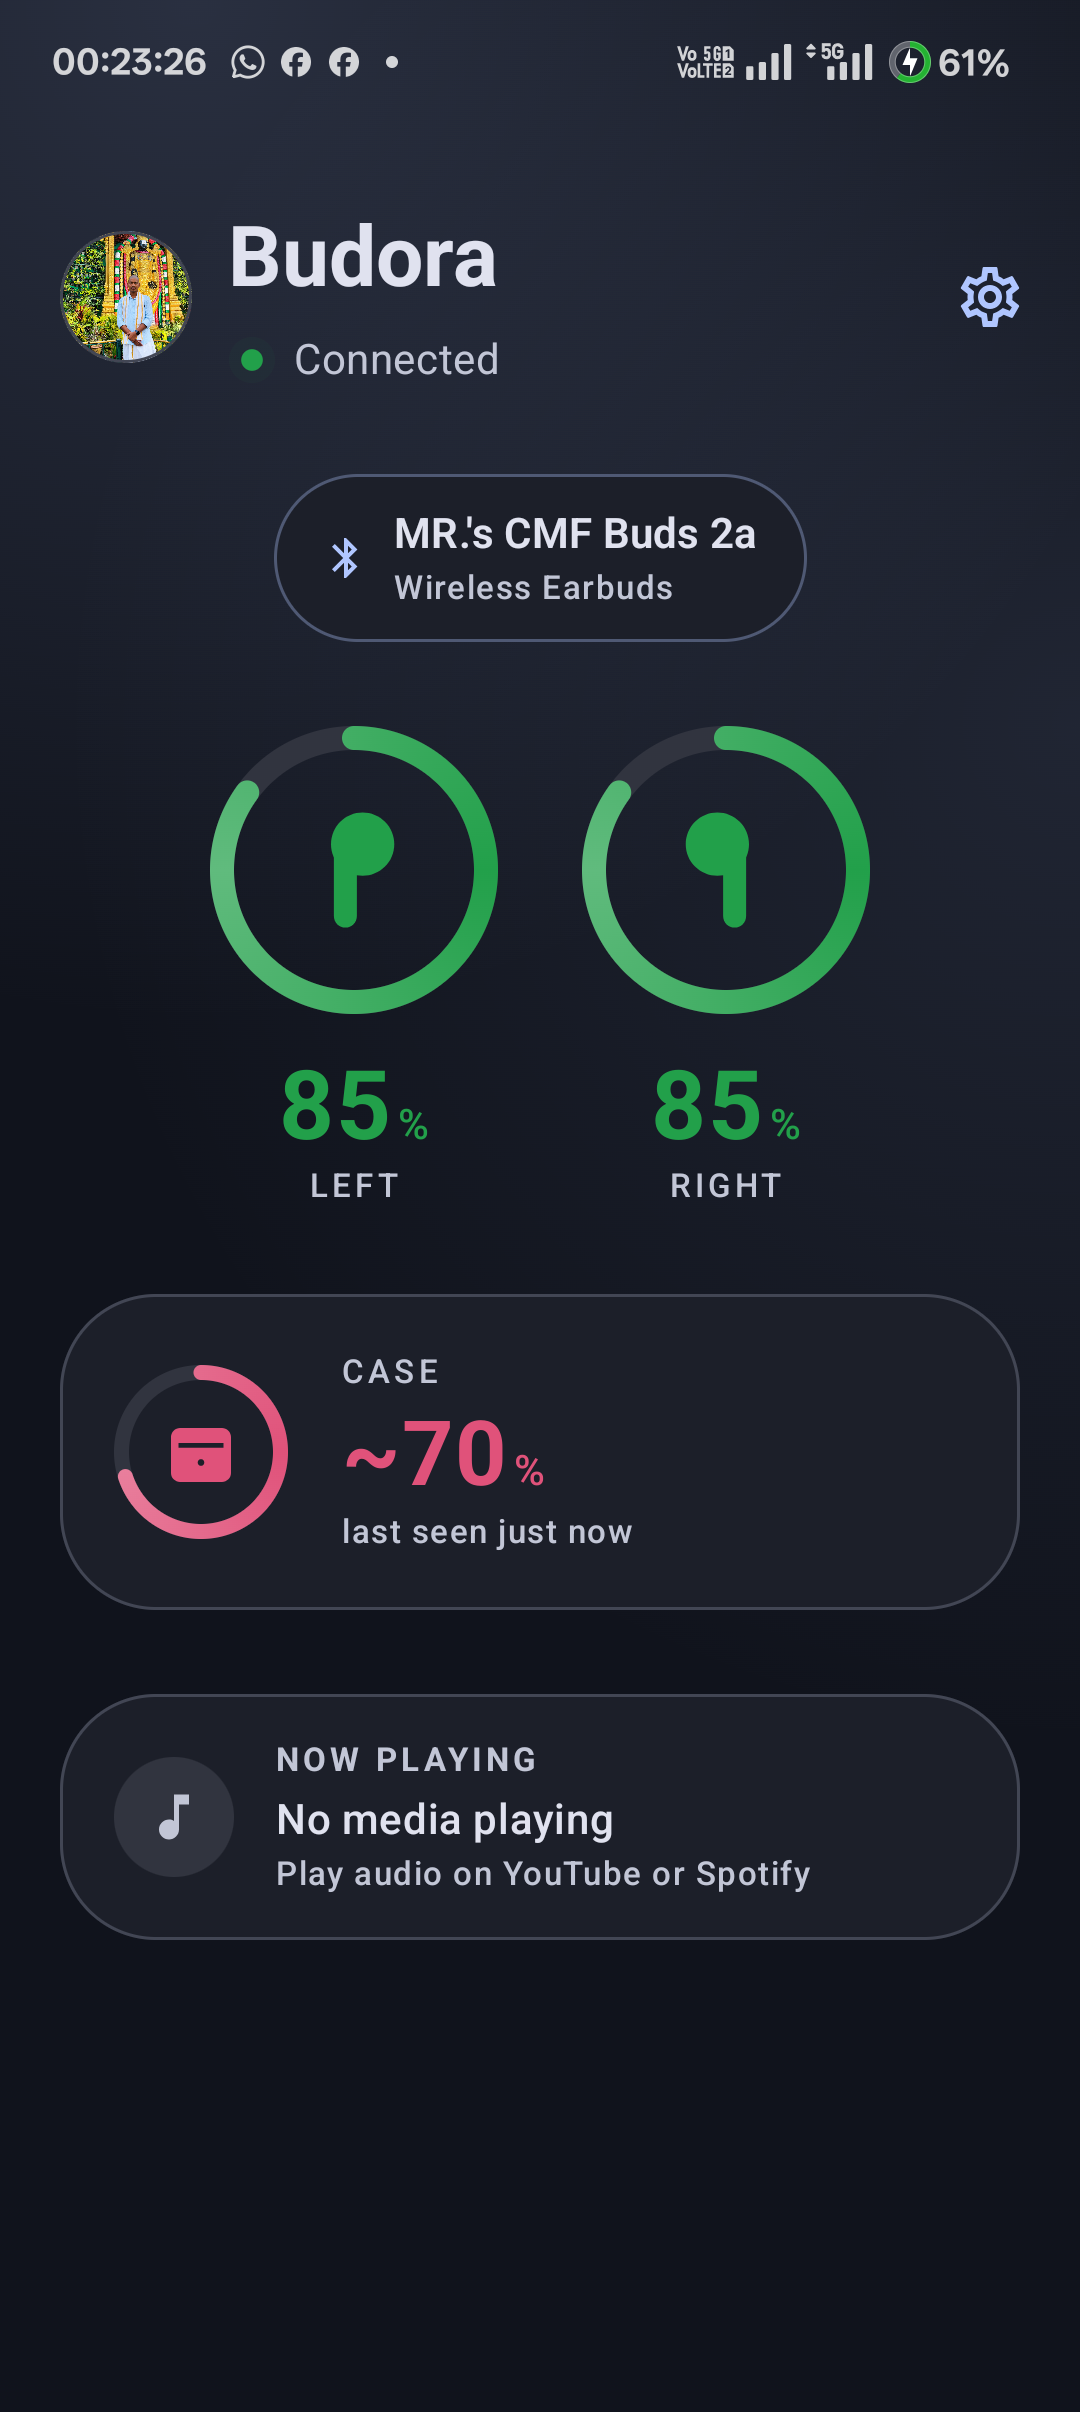
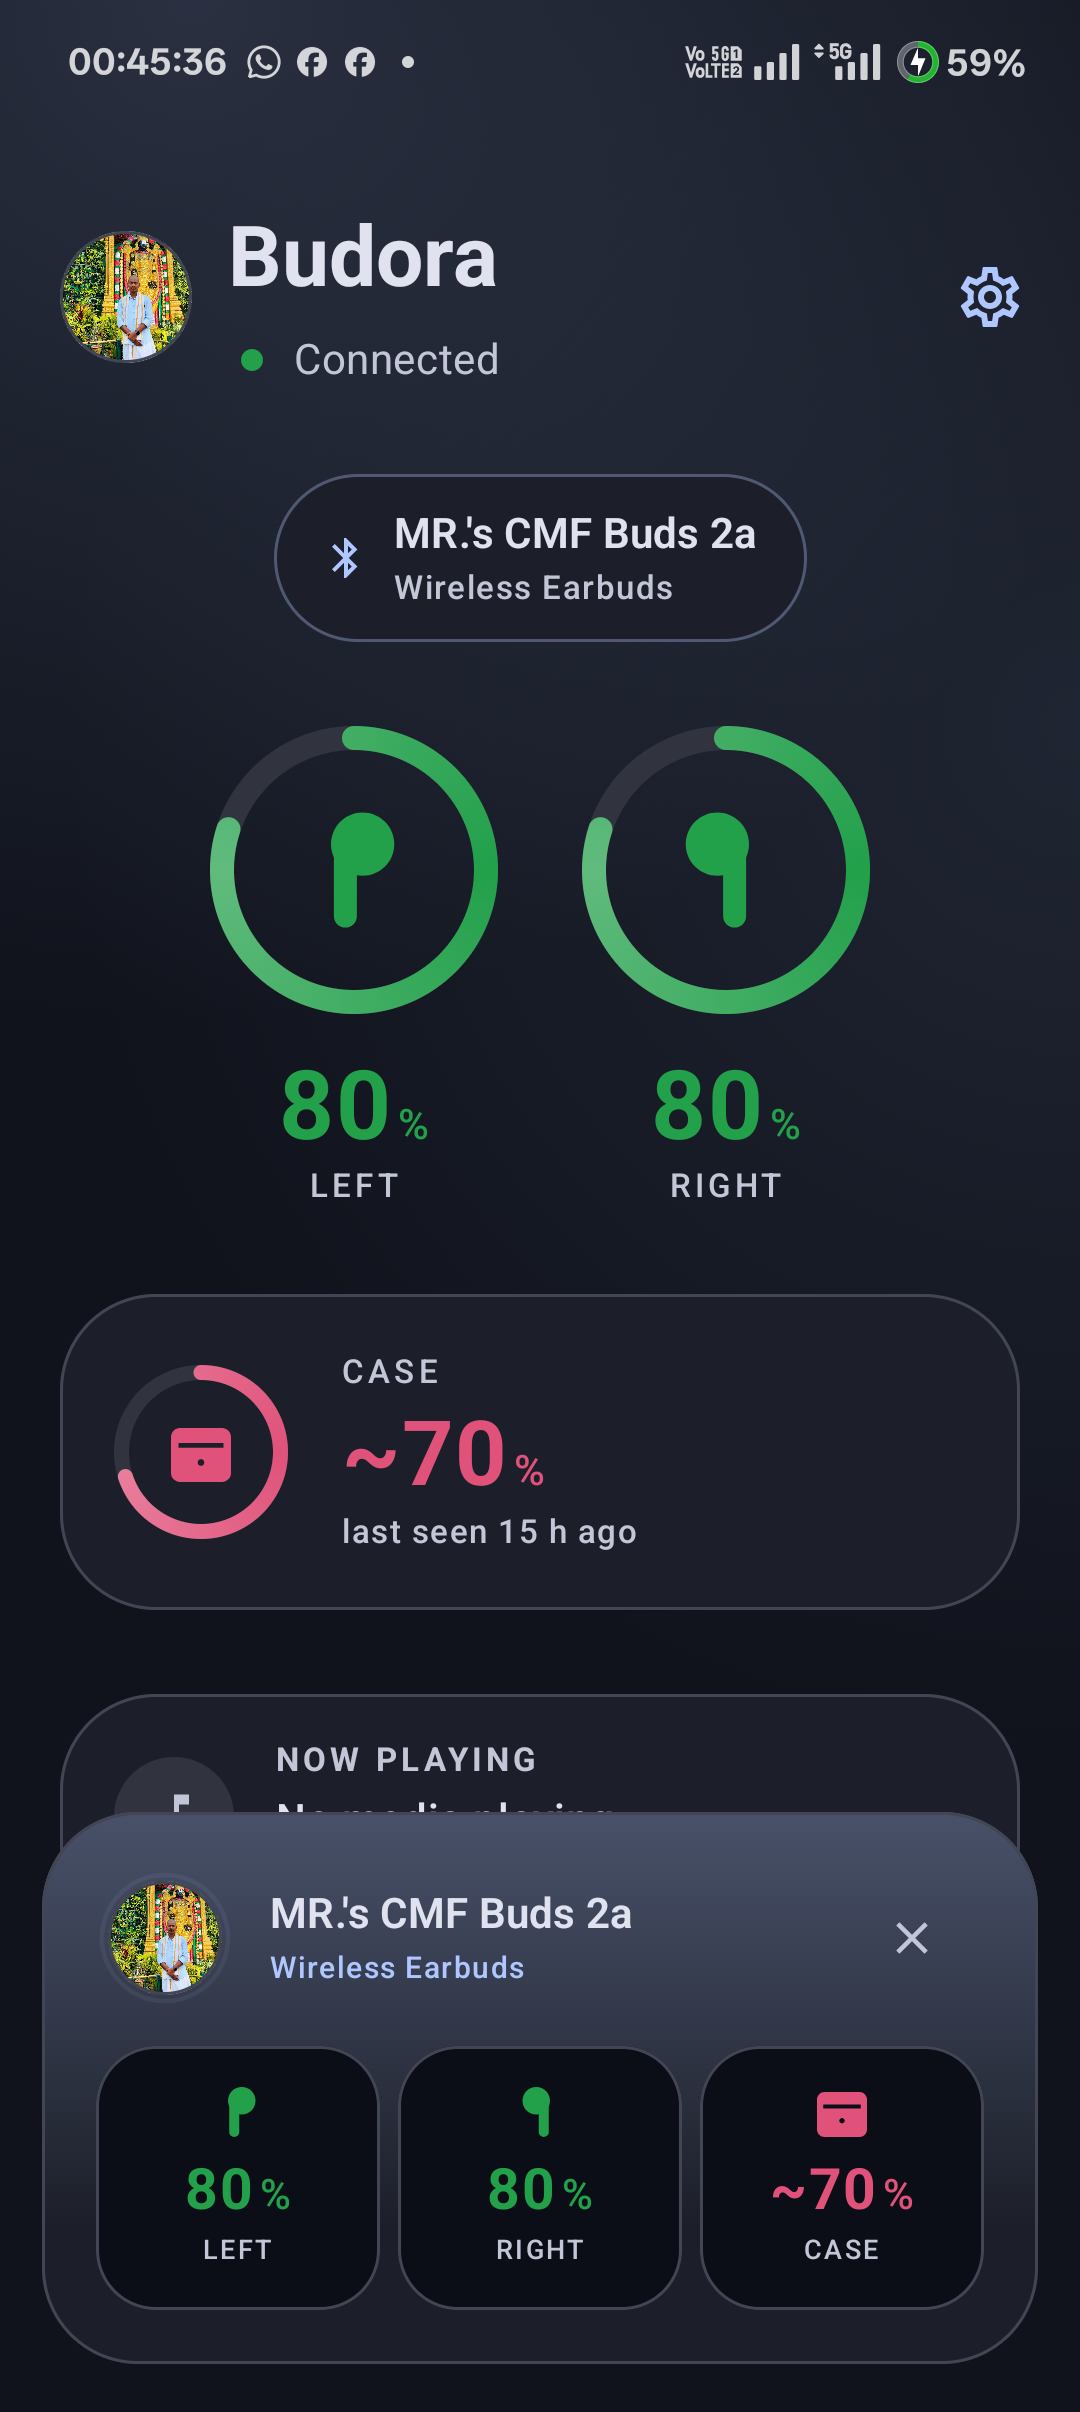
docs: add real distinct mobile screenshots (readout, popup, settings) and cache-busted live Windows screenshots

diff --git a/app/src/main/java/com/budora/ui/MainActivity.kt b/app/src/main/java/com/budora/ui/MainActivity.kt
@@ -2,6 +2,7 @@ package com.budora.ui
 
 import android.Manifest
 import android.content.ComponentName
+import android.content.Intent
 import android.content.pm.PackageManager
 import android.graphics.Color
 import android.os.Build
@@ -13,20 +14,33 @@ import androidx.activity.compose.setContent
 import androidx.activity.enableEdgeToEdge
 import androidx.activity.compose.BackHandler
 import androidx.activity.result.contract.ActivityResultContracts
+import androidx.compose.animation.core.MutableTransitionState
+import androidx.compose.foundation.layout.Box
+import androidx.compose.foundation.layout.fillMaxSize
+import androidx.compose.foundation.layout.padding
 import androidx.compose.runtime.LaunchedEffect
 import androidx.compose.runtime.getValue
 import androidx.compose.runtime.collectAsState
 import androidx.compose.runtime.mutableStateOf
-import androidx.compose.runtime.saveable.rememberSaveable
+import androidx.compose.runtime.remember
 import androidx.compose.runtime.setValue
+import androidx.compose.ui.Alignment
+import androidx.compose.ui.Modifier
+import androidx.compose.ui.unit.dp
 import android.util.Log
 import androidx.core.content.ContextCompat
+import com.budora.ble.BudoraModel
+import com.budora.ble.BudoraState
+import com.budora.data.BudoraConnection
 import com.budora.data.BudoraRepository
+import com.budora.data.LastCaseReading
 import com.budora.data.NowPlayingRepository
+import com.budora.data.PopupPosition
 import com.budora.data.SettingsStore
 import com.budora.service.BondReceiver
 import com.budora.service.BudoraMediaService
 import com.budora.service.BudoraService
+import com.budora.ui.overlay.ConnectPopupCard
 import com.budora.ui.theme.BudoraTheme
 import com.budora.ui.theme.resolve
 
@@ -42,9 +56,22 @@ class MainActivity : ComponentActivity() {
         }
     }
 
+    private val showSettingsState = mutableStateOf(false)
+    private val showPopupState = mutableStateOf(false)
+
+    override fun onNewIntent(intent: Intent) {
+        super.onNewIntent(intent)
+        setIntent(intent)
+        showSettingsState.value = intent.getBooleanExtra("open_settings", false)
+        showPopupState.value = intent.getBooleanExtra("open_popup", false)
+    }
+
     override fun onCreate(savedInstanceState: Bundle?) {
         super.onCreate(savedInstanceState)
         enableEdgeToEdge()
+
+        showSettingsState.value = intent?.getBooleanExtra("open_settings", false) == true
+        showPopupState.value = intent?.getBooleanExtra("open_popup", false) == true
 
         requestMissingPermissions()
         startBudoraServiceSafely()
@@ -64,9 +91,9 @@ class MainActivity : ComponentActivity() {
             }
 
             BudoraTheme(colorTheme = settings.colorTheme, darkTheme = isDark) {
-                // Two screens, one Activity; a navigation library would be
-                // ceremony for a readout and its options page.
-                var showSettings by rememberSaveable { mutableStateOf(false) }
+                var showSettings by showSettingsState
+                var showPopup by showPopupState
+
                 if (showSettings) {
                     BackHandler { showSettings = false }
                     SettingsScreen(
@@ -77,11 +104,45 @@ class MainActivity : ComponentActivity() {
                 } else {
                     val connection by BudoraRepository.state.collectAsState()
                     val deviceName by BudoraRepository.deviceName.collectAsState()
-                    BudoraScreen(
-                        connection = connection,
-                        onOpenSettings = { showSettings = true },
-                        deviceName = deviceName,
-                    )
+                    Box(Modifier.fillMaxSize()) {
+                        BudoraScreen(
+                            connection = connection,
+                            onOpenSettings = { showSettings = true },
+                            deviceName = deviceName,
+                        )
+                        if (showPopup) {
+                            val liveConn = connection as? BudoraConnection.Live
+                            val pState = liveConn?.state ?: BudoraState(
+                                model = BudoraModel.AIRPODS_PRO,
+                                leftBattery = 85,
+                                rightBattery = 85,
+                                caseBattery = 70,
+                                isLeftCharging = false,
+                                isRightCharging = false,
+                                isCaseCharging = false,
+                                isLidOpen = true,
+                                lidOpenCounter = 1,
+                                rawLeftInEar = false,
+                                rawRightInEar = false,
+                            )
+                            val pVisible = remember { MutableTransitionState(true) }
+                            Box(
+                                modifier = Modifier
+                                    .fillMaxSize()
+                                    .padding(horizontal = 16.dp, vertical = 32.dp),
+                                contentAlignment = if (settings.popupPosition == PopupPosition.TOP) Alignment.TopCenter else Alignment.BottomCenter
+                            ) {
+                                ConnectPopupCard(
+                                    state = pState,
+                                    lastCase = liveConn?.lastCase ?: LastCaseReading(70, false, System.currentTimeMillis()),
+                                    position = settings.popupPosition,
+                                    visibleState = pVisible,
+                                    onDismiss = { showPopup = false },
+                                    deviceName = deviceName ?: "CMF Buds 2a"
+                                )
+                            }
+                        }
+                    }
                 }
             }
         }

diff --git a/README.md b/README.md
@@ -40,17 +40,17 @@ Built for speed, pixel-perfect elegance, and zero background battery drain:
   <tr>
     <td align="center" width="33%">
       <strong>🔋 Main Battery Readout</strong><br><br>
-      <img src="docs/assets/screenshots/android_app.png" width="100%" alt="Budora Android Live Battery Readout" /><br>
+      <img src="docs/assets/screenshots/android_app_live.png" width="100%" alt="Budora Android Live Battery Readout" /><br>
       <em>Dual-pod battery rings, case memory (~70%), and live media playback.</em>
     </td>
     <td align="center" width="33%">
       <strong>⚡ Floating Connect Flyout</strong><br><br>
-      <img src="docs/assets/screenshots/android_popup.png" width="100%" alt="Budora Android Connect Drawer" /><br>
+      <img src="docs/assets/screenshots/android_popup_live.png" width="100%" alt="Budora Android Connect Drawer" /><br>
       <em>Lockscreen-aware edge drawer that slides in on Bluetooth connection.</em>
     </td>
     <td align="center" width="33%">
       <strong>⚙ Settings & Customization</strong><br><br>
-      <img src="docs/assets/screenshots/android_settings.png" width="100%" alt="Budora Android Settings Screen" /><br>
+      <img src="docs/assets/screenshots/android_settings_live.png" width="100%" alt="Budora Android Settings Screen" /><br>
       <em>Themes (Ocean, Sunset, Forest), auto-dismiss timers & battery alert thresholds.</em>
     </td>
   </tr>
@@ -65,17 +65,17 @@ Built for speed, pixel-perfect elegance, and zero background battery drain:
   <tr>
     <td align="center" width="50%">
       <strong>🖥 Full Desktop Dashboard with GSMTC Media Player</strong><br><br>
-      <img src="docs/assets/screenshots/windows_dashboard.png" width="100%" alt="Windows Dashboard with Media Player" />
+      <img src="docs/assets/screenshots/windows_dashboard_live.png" width="100%" alt="Windows Dashboard with Media Player" />
     </td>
     <td align="center" width="50%">
       <strong>⚡ Floating Connect Flyout (TWS Earbuds Mode)</strong><br><br>
-      <img src="docs/assets/screenshots/windows_popup_tws.png" width="100%" alt="Windows Connect Popup TWS" />
+      <img src="docs/assets/screenshots/windows_popup_tws_live.png" width="100%" alt="Windows Connect Popup TWS" />
     </td>
   </tr>
   <tr>
     <td colspan="2" align="center">
       <strong>🔊 Universal Bluetooth Speaker Box Mode (WS-036 / Soundbox)</strong><br><br>
-      <img src="docs/assets/screenshots/windows_popup_speaker.png" width="55%" alt="Windows Speaker Mode Flyout" />
+      <img src="docs/assets/screenshots/windows_popup_speaker_live.png" width="55%" alt="Windows Speaker Mode Flyout" />
       <br>
       <em>Intelligent fallback: Detects active Bluetooth speakers/boxes without battery telemetry and displays clean single-gauge audio status.</em>
     </td>
